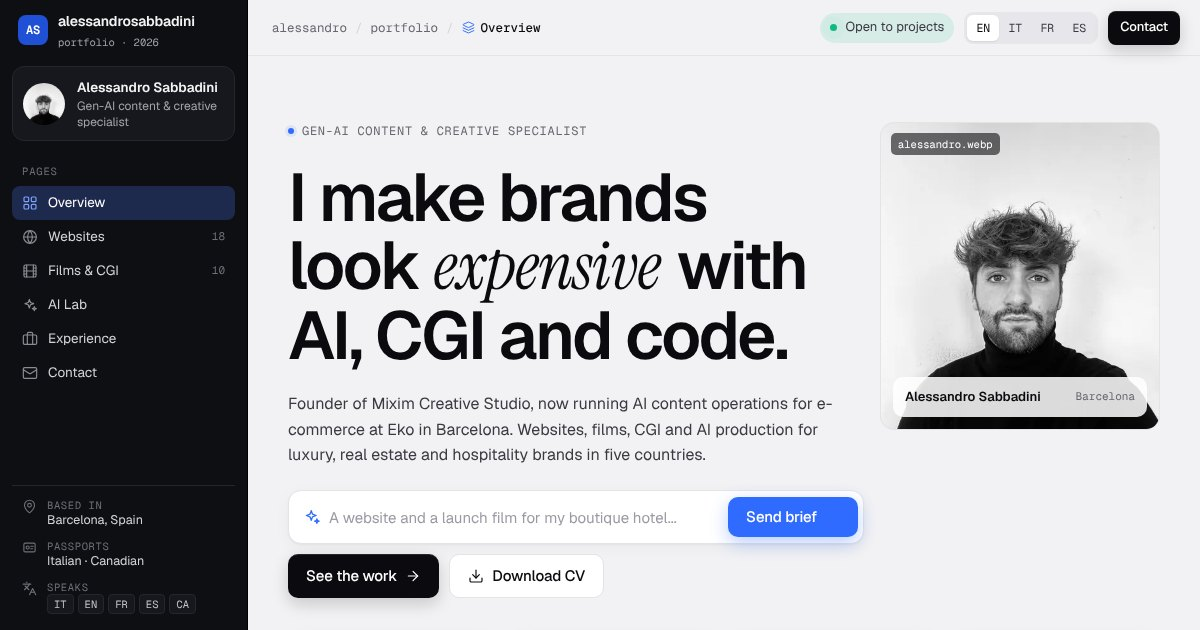
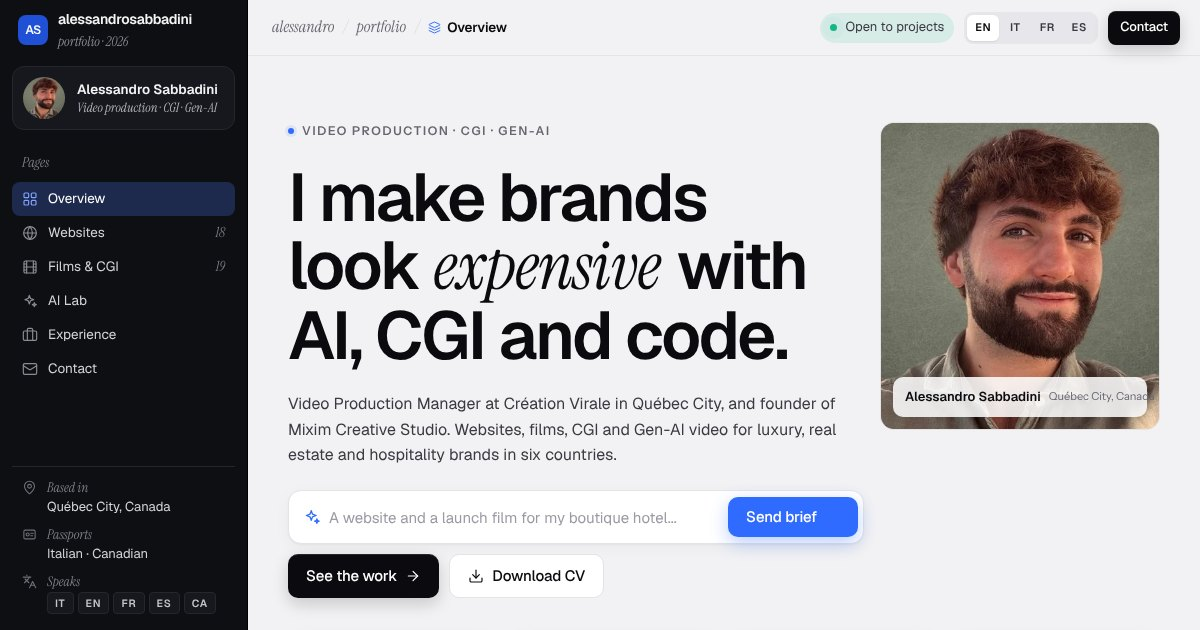
New profile photo, editorial serif meta type, centre layout on wide screens, refresh OG image
Claude-Session: https://claude.ai/code/session_016y7QRSydTArLyj7gzmkYj2

diff --git a/src/styles/global.css b/src/styles/global.css
@@ -139,7 +139,7 @@ em { font-style: normal; }
 .side-brand b { font-size: 14px; font-weight: 600; letter-spacing: -0.01em; }
 .side-brand div span { display: block; font-family: var(--mono); font-size: 10.5px; color: var(--side-text); }
 .side-profile { display: flex; align-items: center; gap: 12px; padding: 10px; border-radius: 12px; background: var(--side-2); border: 1px solid var(--side-line); }
-.side-profile img { width: 42px; height: 42px; border-radius: 50%; object-fit: cover; filter: grayscale(1); }
+.side-profile img { width: 42px; height: 42px; border-radius: 50%; object-fit: cover; }
 .side-profile b { display: block; font-size: 13.5px; font-weight: 600; }
 .side-profile span { display: block; font-size: 12px; color: var(--side-text); line-height: 1.35; }
 .side-h { font-family: var(--mono); font-size: 10.5px; letter-spacing: 0.08em; text-transform: uppercase; color: #6f6f79; padding: 0 10px; margin-bottom: 6px; }
@@ -162,7 +162,7 @@ em { font-style: normal; }
 .scrim { display: none; }
 
 main { padding-left: var(--side-w); padding-top: var(--top-h); }
-.frame { padding: 88px var(--gutter) 0; max-width: 1480px; }
+.frame { padding: 88px var(--gutter) 0; max-width: 1480px; margin-inline: auto; }
 .frame-tag {
   display: inline-flex; align-items: center; gap: 8px; margin-bottom: 18px;
   font-family: var(--mono); font-size: 12px; color: var(--ink-3);
@@ -174,7 +174,7 @@ main { padding-left: var(--side-w); padding-top: var(--top-h); }
 /* ==========================================================================
    Hero / overview
    ========================================================================== */
-.hero { padding: 32px var(--gutter) 0; max-width: 1480px; display: grid; gap: 16px; grid-template-columns: repeat(12, minmax(0, 1fr)); }
+.hero { padding: 32px var(--gutter) 0; max-width: 1480px; margin-inline: auto; display: grid; gap: 16px; grid-template-columns: repeat(12, minmax(0, 1fr)); }
 .hero-head { grid-column: span 8; padding: 34px 0 18px; display: grid; gap: 22px; align-content: start; }
 .hero h1 { font-size: clamp(42px, 5.6vw, 84px); max-width: 15ch; text-wrap: balance; }
 .hero .lead { max-width: 58ch; }
@@ -195,7 +195,7 @@ main { padding-left: var(--side-w); padding-top: var(--top-h); }
   grid-column: span 4; align-self: start; margin-top: 34px; position: relative; overflow: hidden;
   border-radius: var(--radius); background: #d9d9de; border: 1px solid var(--line); aspect-ratio: 4 / 4.4;
 }
-.portrait img { width: 100%; height: 100%; object-fit: cover; object-position: 50% 30%; }
+.portrait img { width: 100%; height: 100%; object-fit: cover; object-position: 50% 40%; }
 .portrait figcaption {
   position: absolute; left: 12px; right: 12px; bottom: 12px; display: flex; align-items: center; justify-content: space-between; gap: 8px;
   padding: 10px 12px; border-radius: 10px; background: rgba(255,255,255,.86); backdrop-filter: blur(10px); -webkit-backdrop-filter: blur(10px);
@@ -417,7 +417,7 @@ dialog.player[open] { animation: pop .45s var(--ease); }
 .clink .row .icon:first-child { color: var(--accent); }
 .clink b { font-size: 15px; font-weight: 600; }
 .clink span { display: block; font-family: var(--mono); font-size: 11.5px; color: var(--ink-3); overflow: hidden; text-overflow: ellipsis; white-space: nowrap; }
-.foot { display: flex; flex-wrap: wrap; align-items: center; justify-content: space-between; gap: 14px; padding: 36px var(--gutter) 40px; max-width: 1480px; font-size: 13px; color: var(--ink-3); }
+.foot { display: flex; flex-wrap: wrap; align-items: center; justify-content: space-between; gap: 14px; padding: 36px var(--gutter) 40px; max-width: 1480px; margin-inline: auto; font-size: 13px; color: var(--ink-3); }
 .foot .mono { font-size: 11.5px; }
 .replay { display: inline-flex; align-items: center; gap: 8px; font-family: var(--mono); font-size: 12px; color: var(--accent-ink); padding: 8px 12px; border-radius: 8px; border: 1px dashed rgba(47,107,255,.5); background: var(--accent-soft); }
 .replay:hover { background: rgba(47,107,255,.16); }
@@ -556,3 +556,17 @@ html.intro .topbar { background: rgba(242,242,244,1); }
   *, *::before, *::after { animation-duration: 0.001ms !important; animation-iteration-count: 1 !important; transition-duration: 0.001ms !important; scroll-behavior: auto !important; }
   html.js [data-reveal] { opacity: 1; transform: none; }
 }
+
+/* ---- Editorial meta type (sidebar + top bar): serif italic + refined small caps ---- */
+.crumbs { font-family: var(--serif); font-style: italic; font-size: 16px; letter-spacing: 0; color: var(--ink-3); gap: 9px; }
+.crumbs b { font-family: var(--sans); font-style: normal; font-size: 13.5px; font-weight: 600; letter-spacing: -0.01em; }
+.crumbs .sep { font-style: normal; color: var(--line-2); }
+.side-brand b { font-family: var(--sans); font-size: 14px; letter-spacing: -0.02em; }
+.side-brand div span { font-family: var(--serif); font-style: italic; font-size: 13.5px; letter-spacing: 0; color: #8d8d97; }
+.side-profile span { font-family: var(--serif); font-style: italic; font-size: 13px; line-height: 1.25; color: #b3b3bc; }
+.side-h { font-family: var(--serif); font-style: italic; font-size: 14px; letter-spacing: 0; text-transform: none; color: #7d7d87; margin-bottom: 8px; }
+.side-row small { font-family: var(--serif); font-style: italic; font-size: 13.5px; letter-spacing: 0; text-transform: none; color: #7d7d87; margin-bottom: 1px; }
+.side-row { font-size: 13px; }
+.side-langs span { font-family: var(--sans); font-size: 10.5px; font-weight: 600; letter-spacing: 0.08em; padding: 3px 7px; }
+.side-nav .count { font-family: var(--serif); font-style: italic; font-size: 14px; color: #7d7d87; }
+.langs a { font-family: var(--sans); font-weight: 600; letter-spacing: 0.06em; font-size: 11px; }
